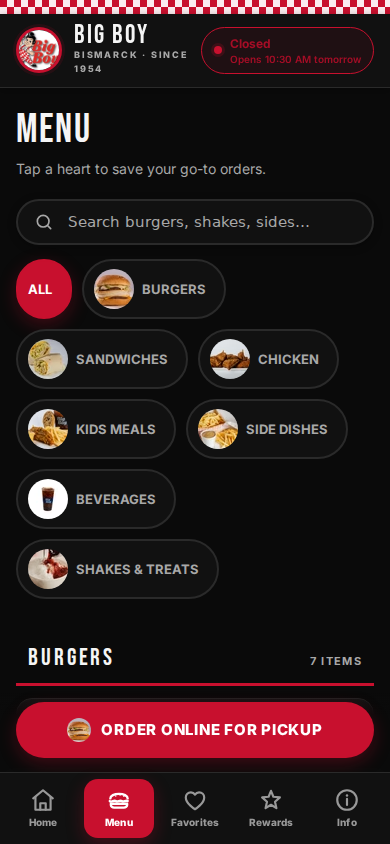
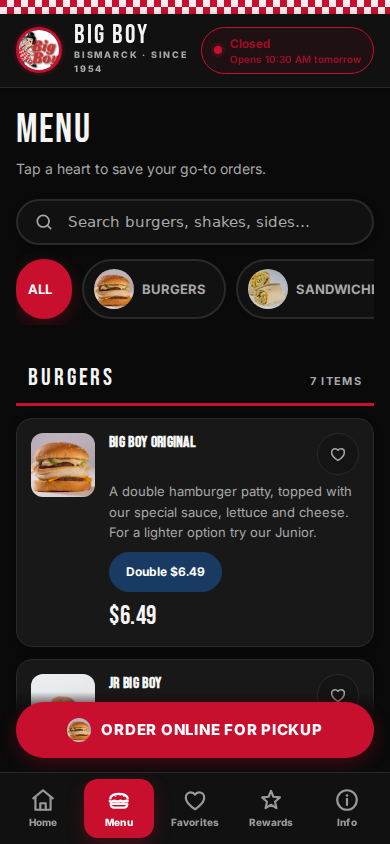
Make menu category chips scroll horizontally

Changed region(s): [[0.0308, 0.3081, 0.9538, 0.7393], [0.0308, 0.7393, 0.9538, 0.8318], [0.4615, 0.4005, 0.4923, 0.4313]]

diff --git a/styles.css b/styles.css
@@ -376,7 +376,7 @@ header{
 .search .clear:hover{background:var(--line-dark)}
 .search.has .clear{display:grid}
 
-.chips{display:flex;flex-wrap:wrap;gap:10px;padding:14px 0 6px;scrollbar-width:none}
+.chips{display:flex;flex-wrap:nowrap;gap:10px;padding:14px 0 6px;overflow-x:auto;scrollbar-width:none;-webkit-overflow-scrolling:touch}
 .chips::-webkit-scrollbar{display:none}
 
 .chip{
@@ -792,8 +792,6 @@ nav.tabbar{
 }
 
 @media (max-width:380px){
-  .chip{flex-direction:column;white-space:normal;text-align:center;padding:10px 8px;min-height:auto;line-height:1.25}
-  .chip .chip-thumb{width:32px;height:32px;margin:0 0 6px}
   .cat-head{font-size:20px;flex-wrap:wrap;gap:4px}
   .cat-head span{white-space:normal}
   .size{white-space:normal;text-align:center;padding:6px 10px}
